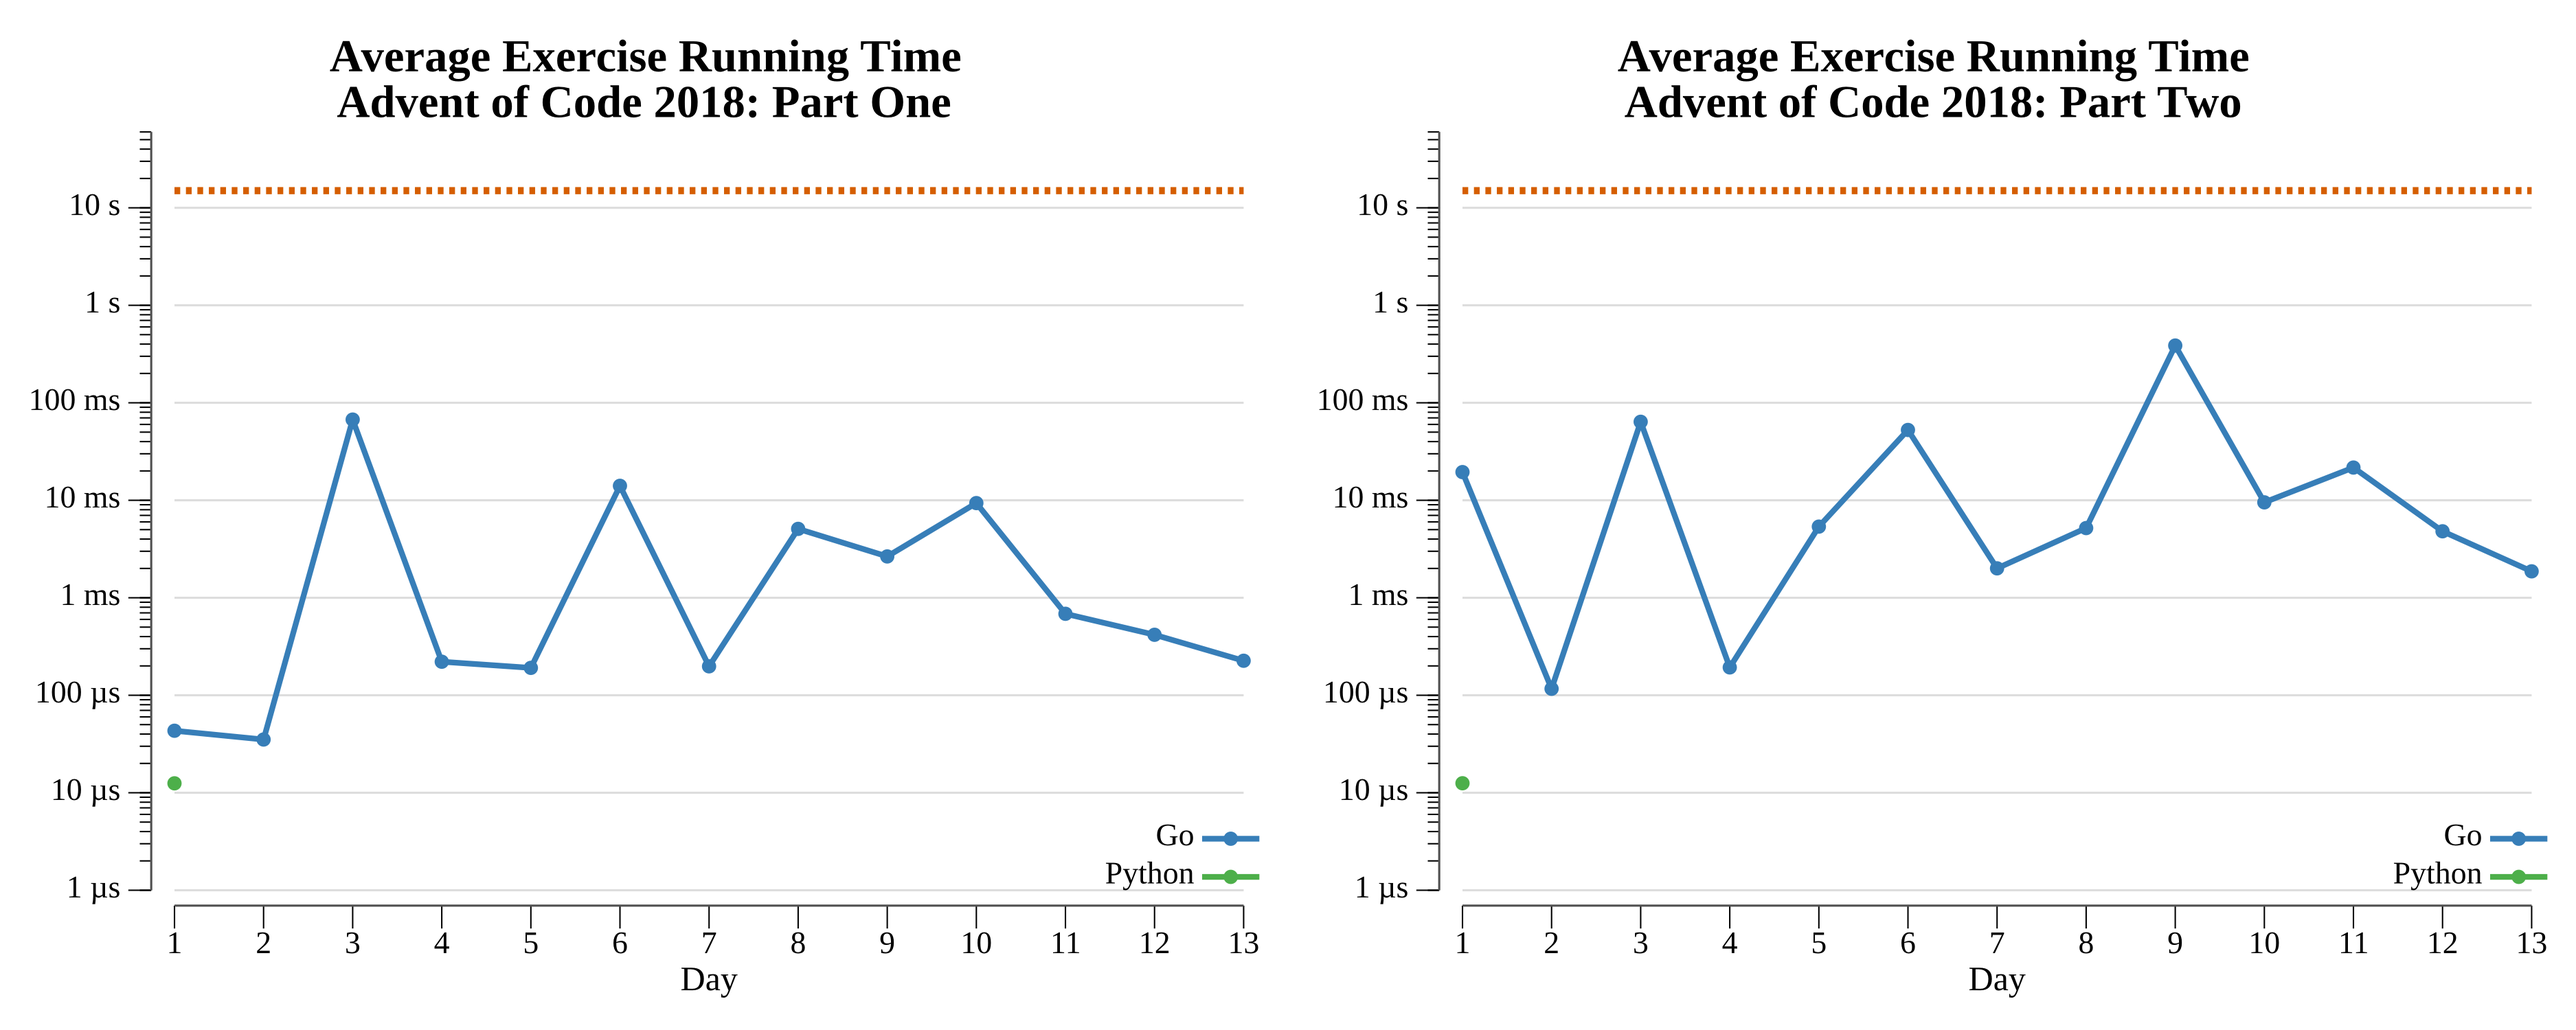
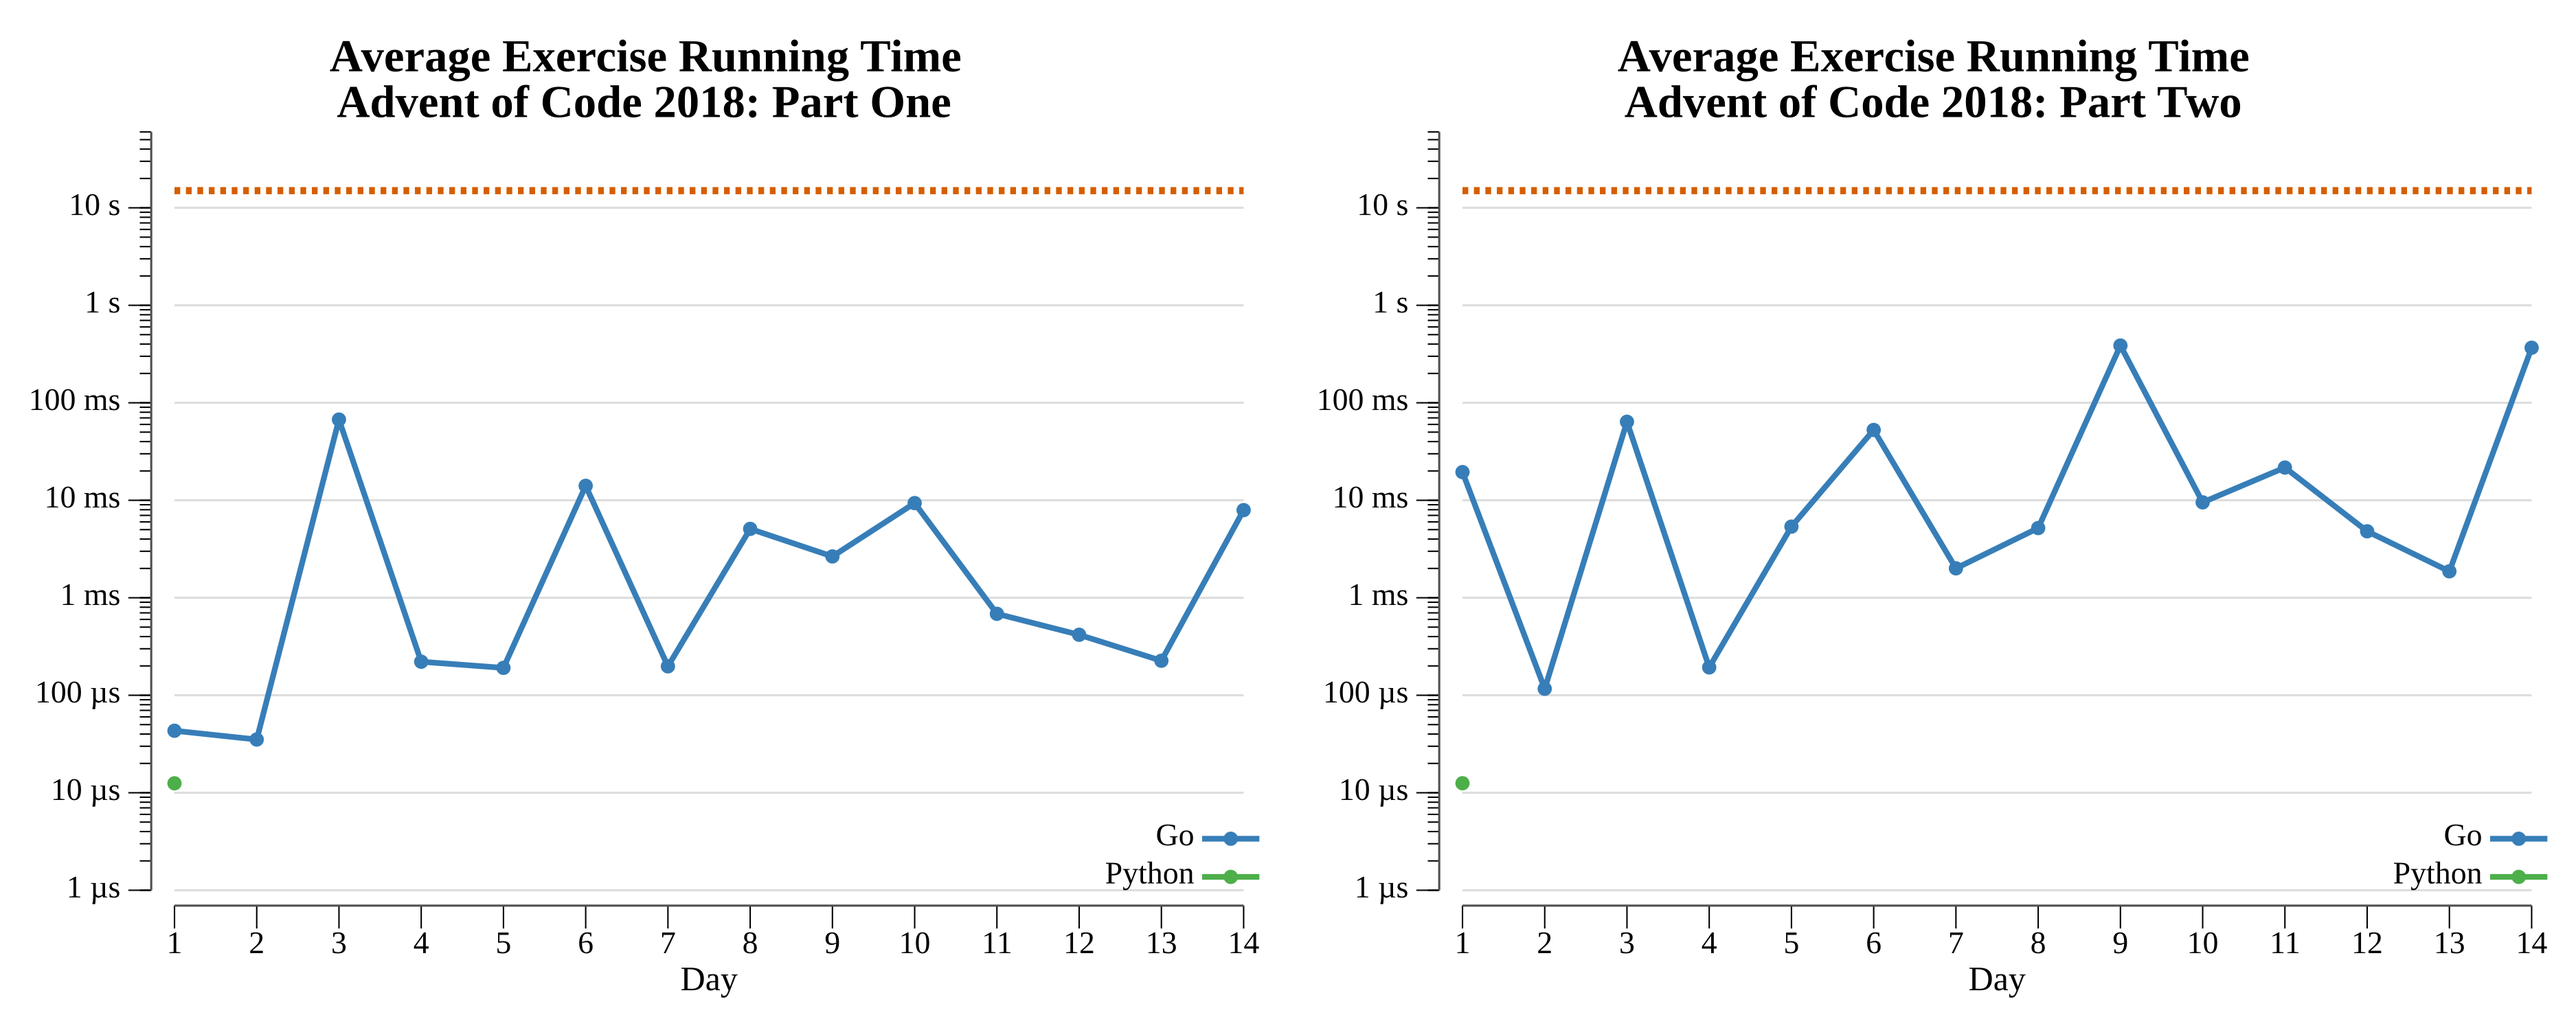
2018 day 14

diff --git a/exercises/2018/14-chocolateCharts/go/exercise.go b/exercises/2018/14-chocolateCharts/go/exercise.go
@@ -1,0 +1,93 @@
+package exercises
+
+import (
+	"strconv"
+	"strings"
+
+	"github.com/asphaltbuffet/advent-of-code/internal/common"
+)
+
+// Exercise for Advent of Code 2018 day 14.
+type Exercise struct {
+	common.BaseExercise
+}
+
+// scoreboard holds the recipe digits (0-9) and the two elves' positions. Each
+// step appends the digits of the two current recipes' sum, then advances each
+// elf forward by one plus its current recipe.
+type scoreboard struct {
+	scores []byte
+	a, b   int
+}
+
+func newScoreboard() *scoreboard {
+	return &scoreboard{scores: []byte{3, 7}, a: 0, b: 1}
+}
+
+// step appends the next one or two recipes and moves both elves.
+func (s *scoreboard) step() {
+	sum := s.scores[s.a] + s.scores[s.b]
+	if sum >= 10 {
+		s.scores = append(s.scores, sum/10)
+	}
+	s.scores = append(s.scores, sum%10)
+
+	s.a = (s.a + 1 + int(s.scores[s.a])) % len(s.scores)
+	s.b = (s.b + 1 + int(s.scores[s.b])) % len(s.scores)
+}
+
+// One returns the answer to the first part of the exercise.
+// Answer: 5371393113
+func (e Exercise) One(instr string) (any, error) {
+	n, err := strconv.Atoi(strings.TrimSpace(instr))
+	if err != nil {
+		return nil, err
+	}
+
+	sb := newScoreboard()
+	for len(sb.scores) < n+10 {
+		sb.step()
+	}
+
+	var b strings.Builder
+	for _, d := range sb.scores[n : n+10] {
+		b.WriteByte('0' + d)
+	}
+
+	return b.String(), nil
+}
+
+// Two returns the answer to the second part of the exercise.
+// Answer: 20286858
+func (e Exercise) Two(instr string) (any, error) {
+	input := strings.TrimSpace(instr)
+	target := make([]byte, len(input))
+	for i := range input {
+		target[i] = input[i] - '0'
+	}
+
+	sb := newScoreboard()
+
+	// A step appends one or two recipes, so check for the target after each append
+	// by comparing the tail. `checked` tracks how far we have already compared so
+	// no suffix is missed across a two-digit step.
+	checked := 0
+	for {
+		sb.step()
+		for ; checked+len(target) <= len(sb.scores); checked++ {
+			if matchesAt(sb.scores, target, checked) {
+				return checked, nil
+			}
+		}
+	}
+}
+
+// matchesAt reports whether target equals scores starting at index i.
+func matchesAt(scores, target []byte, i int) bool {
+	for j := range target {
+		if scores[i+j] != target[j] {
+			return false
+		}
+	}
+	return true
+}

diff --git a/exercises/2018/14-chocolateCharts/README.md b/exercises/2018/14-chocolateCharts/README.md
@@ -1,0 +1,38 @@
+# [Day 14: Chocolate Charts](https://adventofcode.com/2018/day/14)
+
+<!-- [Day 14: Chocolate Charts](14-chocolateCharts) -->
+
+## Notes
+
+Two elves build a scoreboard of single-digit recipes. Each step appends the digits
+of their two current recipes' sum, then each elf steps forward by one plus its own
+recipe. The board is a `[]byte` of digits that only ever grows.
+
+- **Part One** treats the input as a count: build until there are ten recipes past
+  it, then read those ten digits.
+- **Part Two** treats the input as a digit pattern and reports how many recipes
+  precede its first appearance. Since a step can append one or two digits, the tail
+  is checked after every append, tracking how far it has already compared so no
+  suffix is skipped across a two-digit step.
+
+## Go
+
+```text
+────────────────────────────────────────
+─    2018 Day 14: Chocolate Charts     ─
+────────────────────────────────────────
+
+Solving (Go)…
+1.0:  PASS             8.264ms
+2.0:  PASS           357.976ms
+```
+
+## Python
+
+```text
+    < section intentionally left blank >
+```
+
+## Run Times
+
+![Day 14 run-time graphs](run-times.png)

diff --git a/exercises/2018/README.md b/exercises/2018/README.md
@@ -19,7 +19,7 @@
 | [Day 11: Chronal Charge](11-chronalCharge/README.md) |  ★ ★  | [Go](11-chronalCharge/go) |
 | [Day 12: Subterranean Sustainability](12-subterraneanSustainability/README.md) |  ★ ★  | [Go](12-subterraneanSustainability/go) |
 | [Day 13: Mine Cart Madness](13-mineCartMadness/README.md) |  ★ ★  | [Go](13-mineCartMadness/go) |
-| 14                                                            |  ☆ ☆  |                                |
+| [Day 14: Chocolate Charts](14-chocolateCharts/README.md) |  ★ ★  | [Go](14-chocolateCharts/go) |
 | 15                                                            |  ☆ ☆  |                                |
 | 16                                                            |  ☆ ☆  |                                |
 | 17                                                            |  ☆ ☆  |                                |
